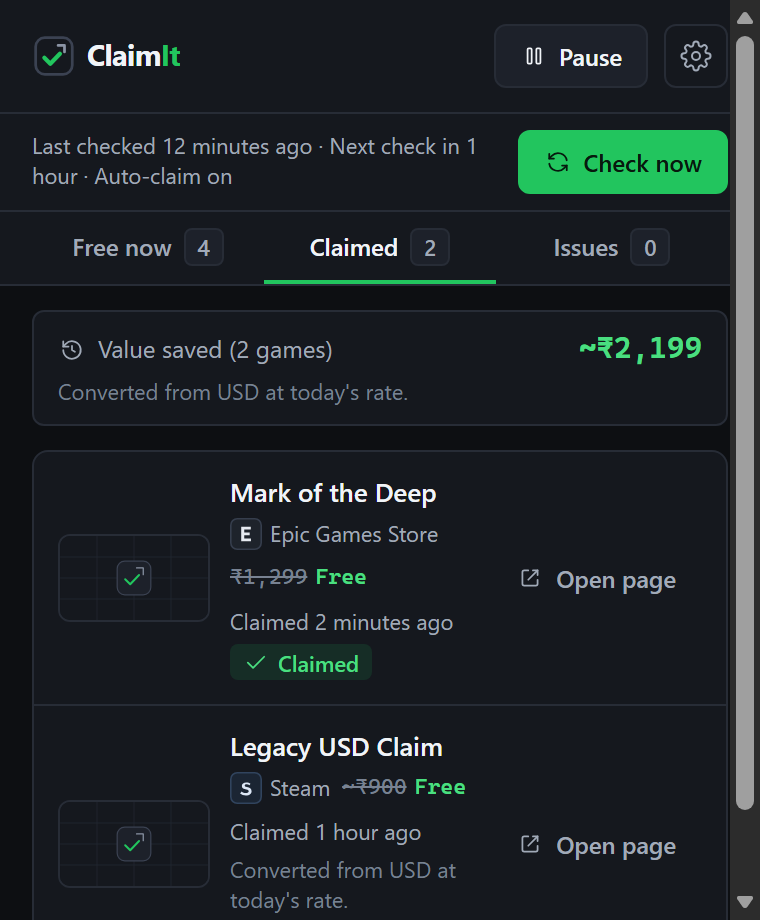
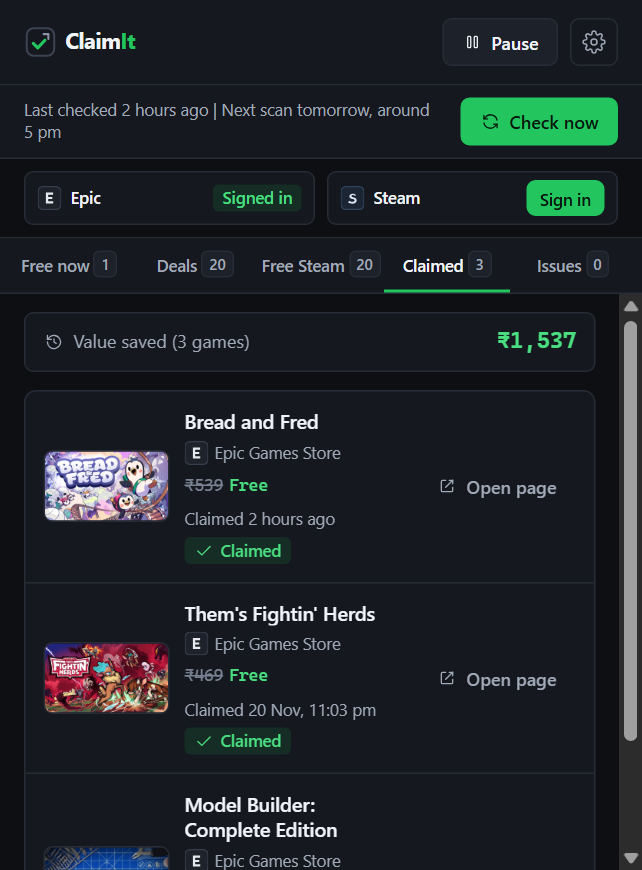
docs: refresh README screenshots to match current ClaimIt UI

diff --git a/src/popup/popup.html b/src/popup/popup.html
@@ -68,7 +68,7 @@
           <div class="deals-controls-row">
             <div class="search-field">
               <svg class="icon search-icon" aria-hidden="true"><use href="../../assets/icons.svg#icon-search"></use></svg>
-              <input id="dealsSearchInput" type="text" class="search-input" placeholder="Search Steam deals (e.g. Battlefield)" aria-label="Search Steam deals" autocomplete="off" spellcheck="false" maxlength="80" />
+              <input id="dealsSearchInput" type="text" class="search-input" placeholder="Search deals (e.g. Battlefield)" aria-label="Search Steam deals" autocomplete="off" spellcheck="false" maxlength="80" />
               <button id="clearDealsSearchBtn" type="button" class="search-clear-btn hidden" aria-label="Clear search" title="Clear search">
                 <svg class="icon" aria-hidden="true"><use href="../../assets/icons.svg#icon-close"></use></svg>
               </button>
@@ -104,7 +104,7 @@
           <div class="deals-controls-row">
             <div class="search-field">
               <svg class="icon search-icon" aria-hidden="true"><use href="../../assets/icons.svg#icon-search"></use></svg>
-              <input id="freeSteamSearchInput" type="text" class="search-input" placeholder="Search free Steam games (e.g. Apex)" aria-label="Search free Steam games" autocomplete="off" spellcheck="false" maxlength="80" />
+              <input id="freeSteamSearchInput" type="text" class="search-input" placeholder="Search free games (e.g. Apex)" aria-label="Search free Steam games" autocomplete="off" spellcheck="false" maxlength="80" />
               <button id="clearFreeSteamSearchBtn" type="button" class="search-clear-btn hidden" aria-label="Clear search" title="Clear search">
                 <svg class="icon" aria-hidden="true"><use href="../../assets/icons.svg#icon-close"></use></svg>
               </button>

diff --git a/README.md b/README.md
@@ -6,9 +6,13 @@ ClaimIt is a Chrome Manifest V3 extension that watches Epic Games Store and Stea
 
 ## Screenshots
 
-| Free now | Claimed and regional savings | Settings |
+| Free now | Deals | Free Steam |
 |---|---|---|
-| ![ClaimIt popup Free now tab showing active offer and next daily scan time](docs/images/popup-free-games.png) | ![ClaimIt popup Claimed tab showing total savings formatted in INR](docs/images/popup-claimed.png) | ![ClaimIt Settings page with store switches and currency selector](docs/images/options-settings.png) |
+| ![ClaimIt popup Free now tab showing 5 tabs, store sign-in controls, and active giveaway](docs/images/popup-free-games.png) | ![ClaimIt popup Deals tab showing paid Steam discounts, cover art, review stats, search, sort, and discount slider](docs/images/popup-deals.png) | ![ClaimIt popup Free Steam tab showing free-to-play Steam games with cover art, search, and review popularity](docs/images/popup-free-steam.png) |
+
+| Claimed and savings | Settings |
+|---|---|
+| ![ClaimIt popup Claimed tab showing total savings formatted in INR with game covers](docs/images/popup-claimed.png) | ![ClaimIt Settings page with store sign-in controls, currency selector, and Steam discount slider](docs/images/options-settings.png) |
 
 ## What it does
 
